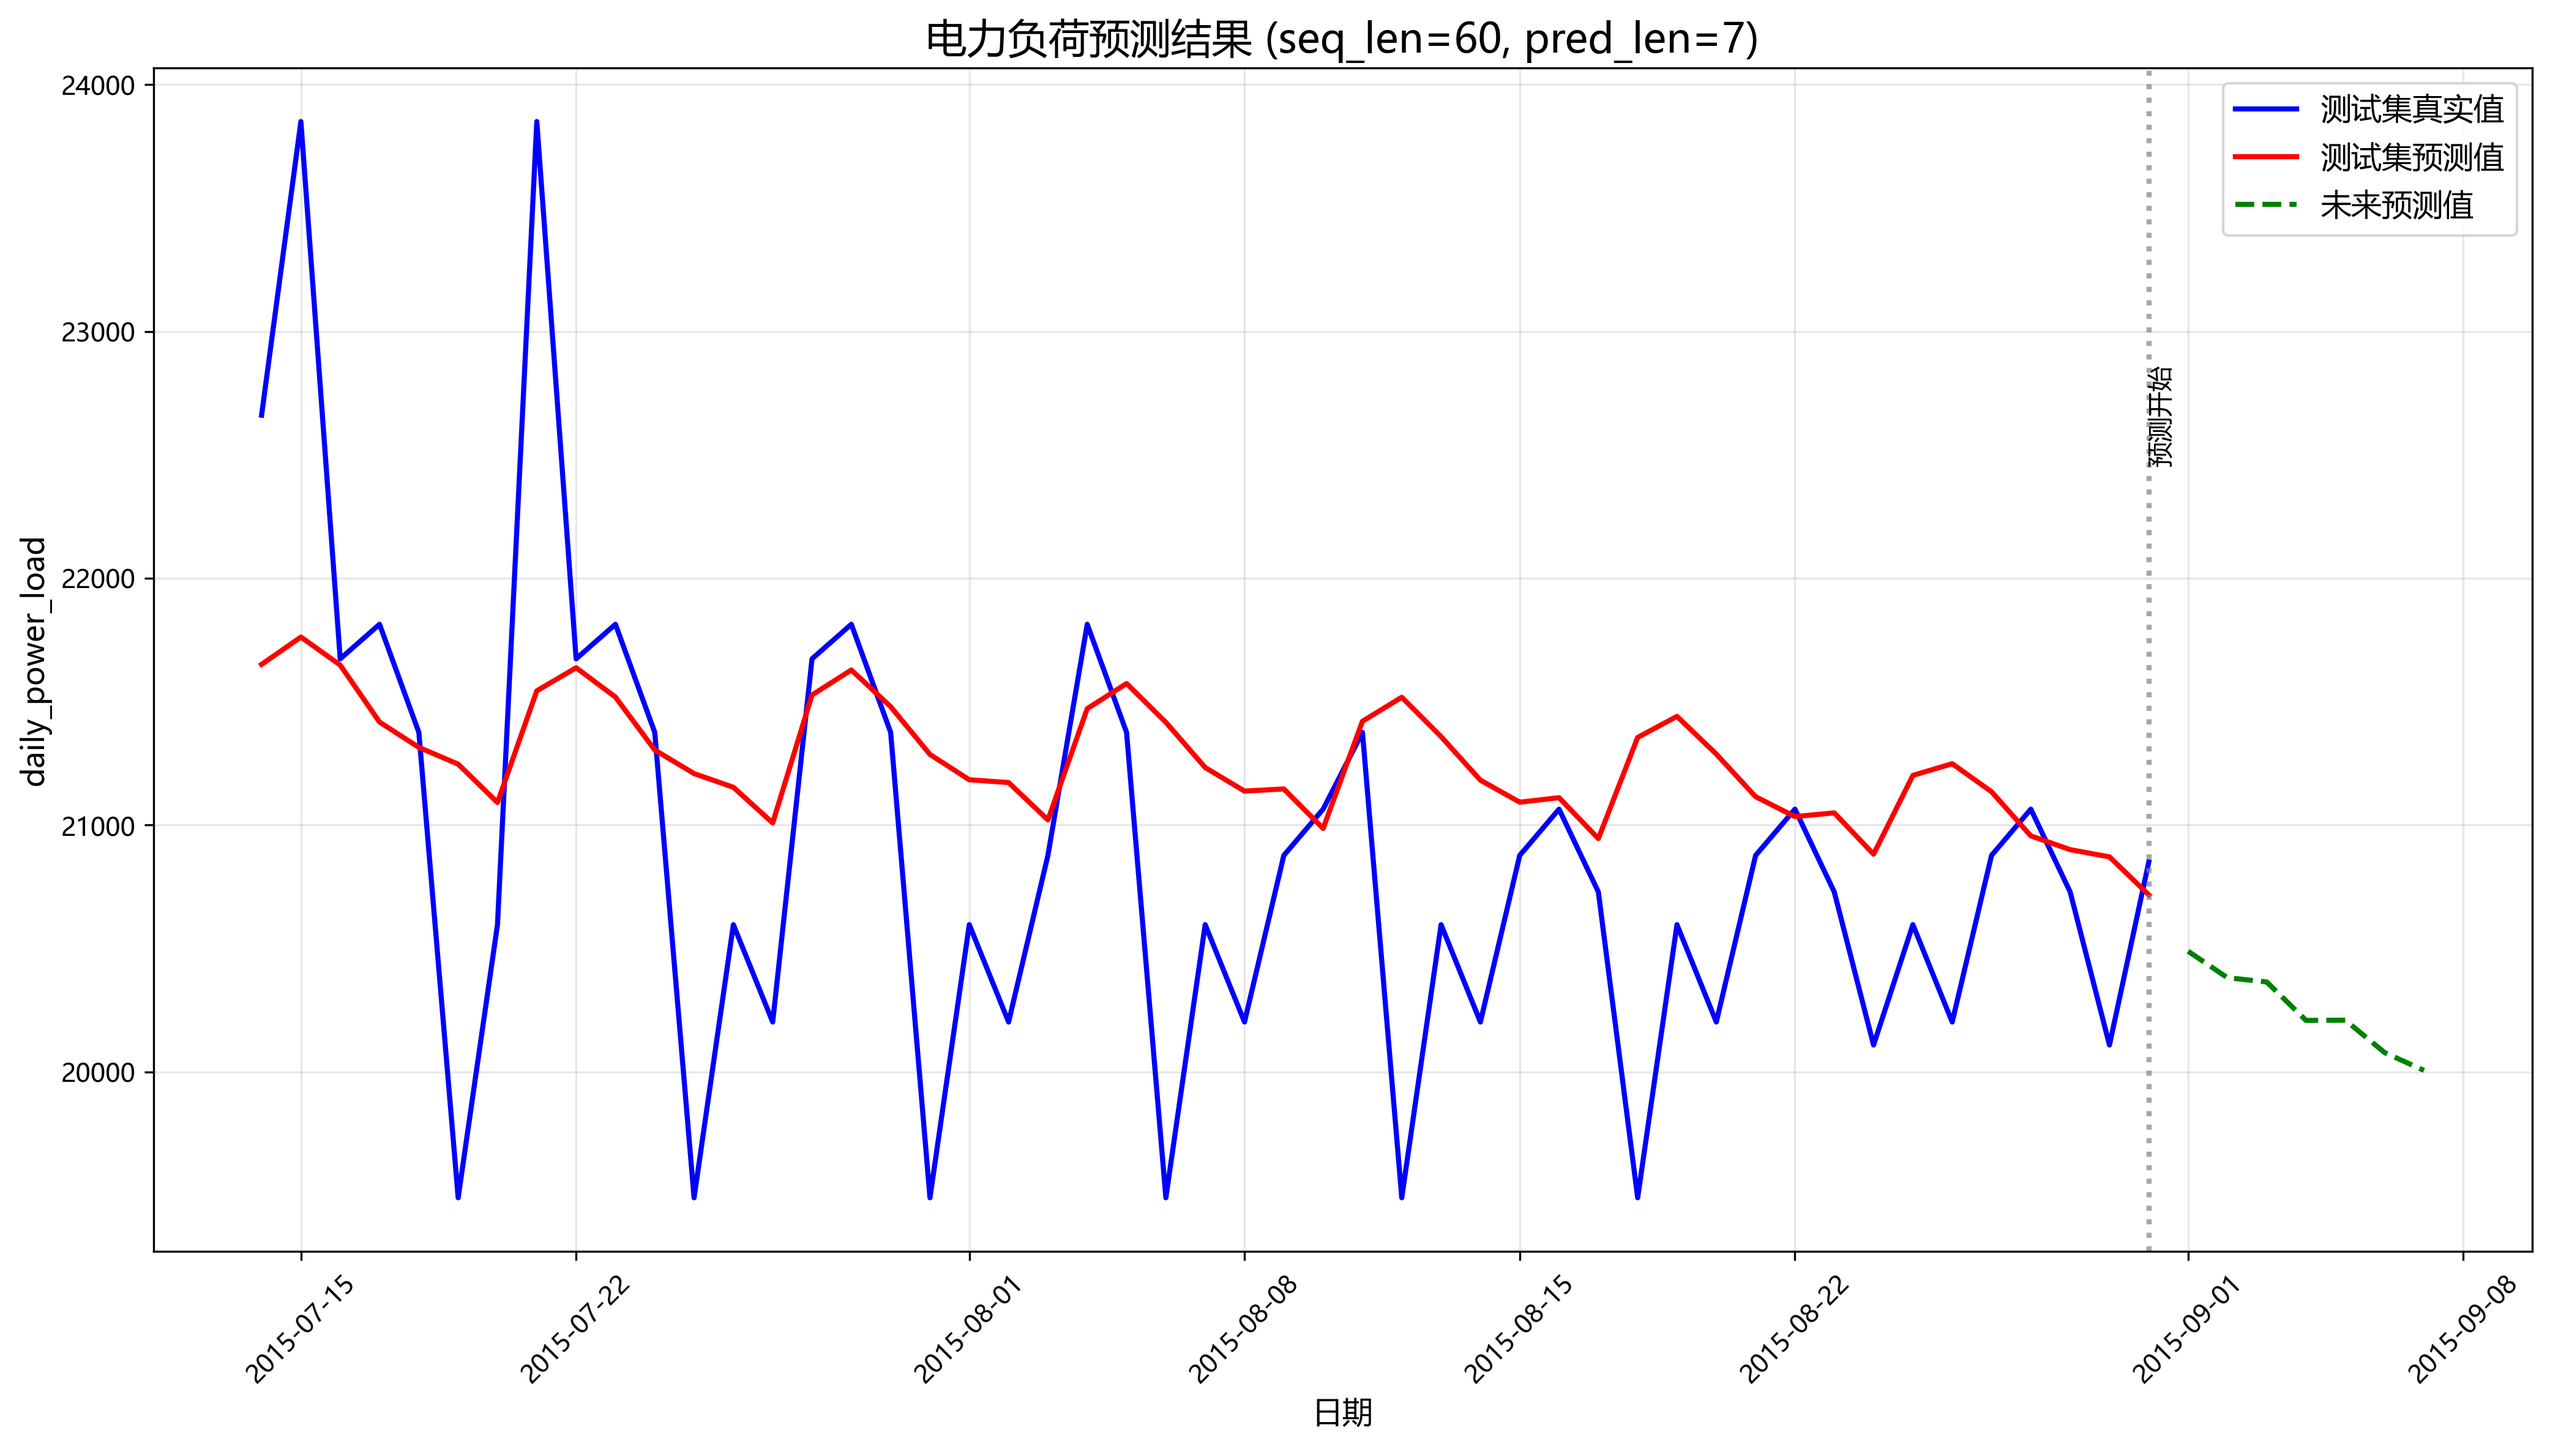
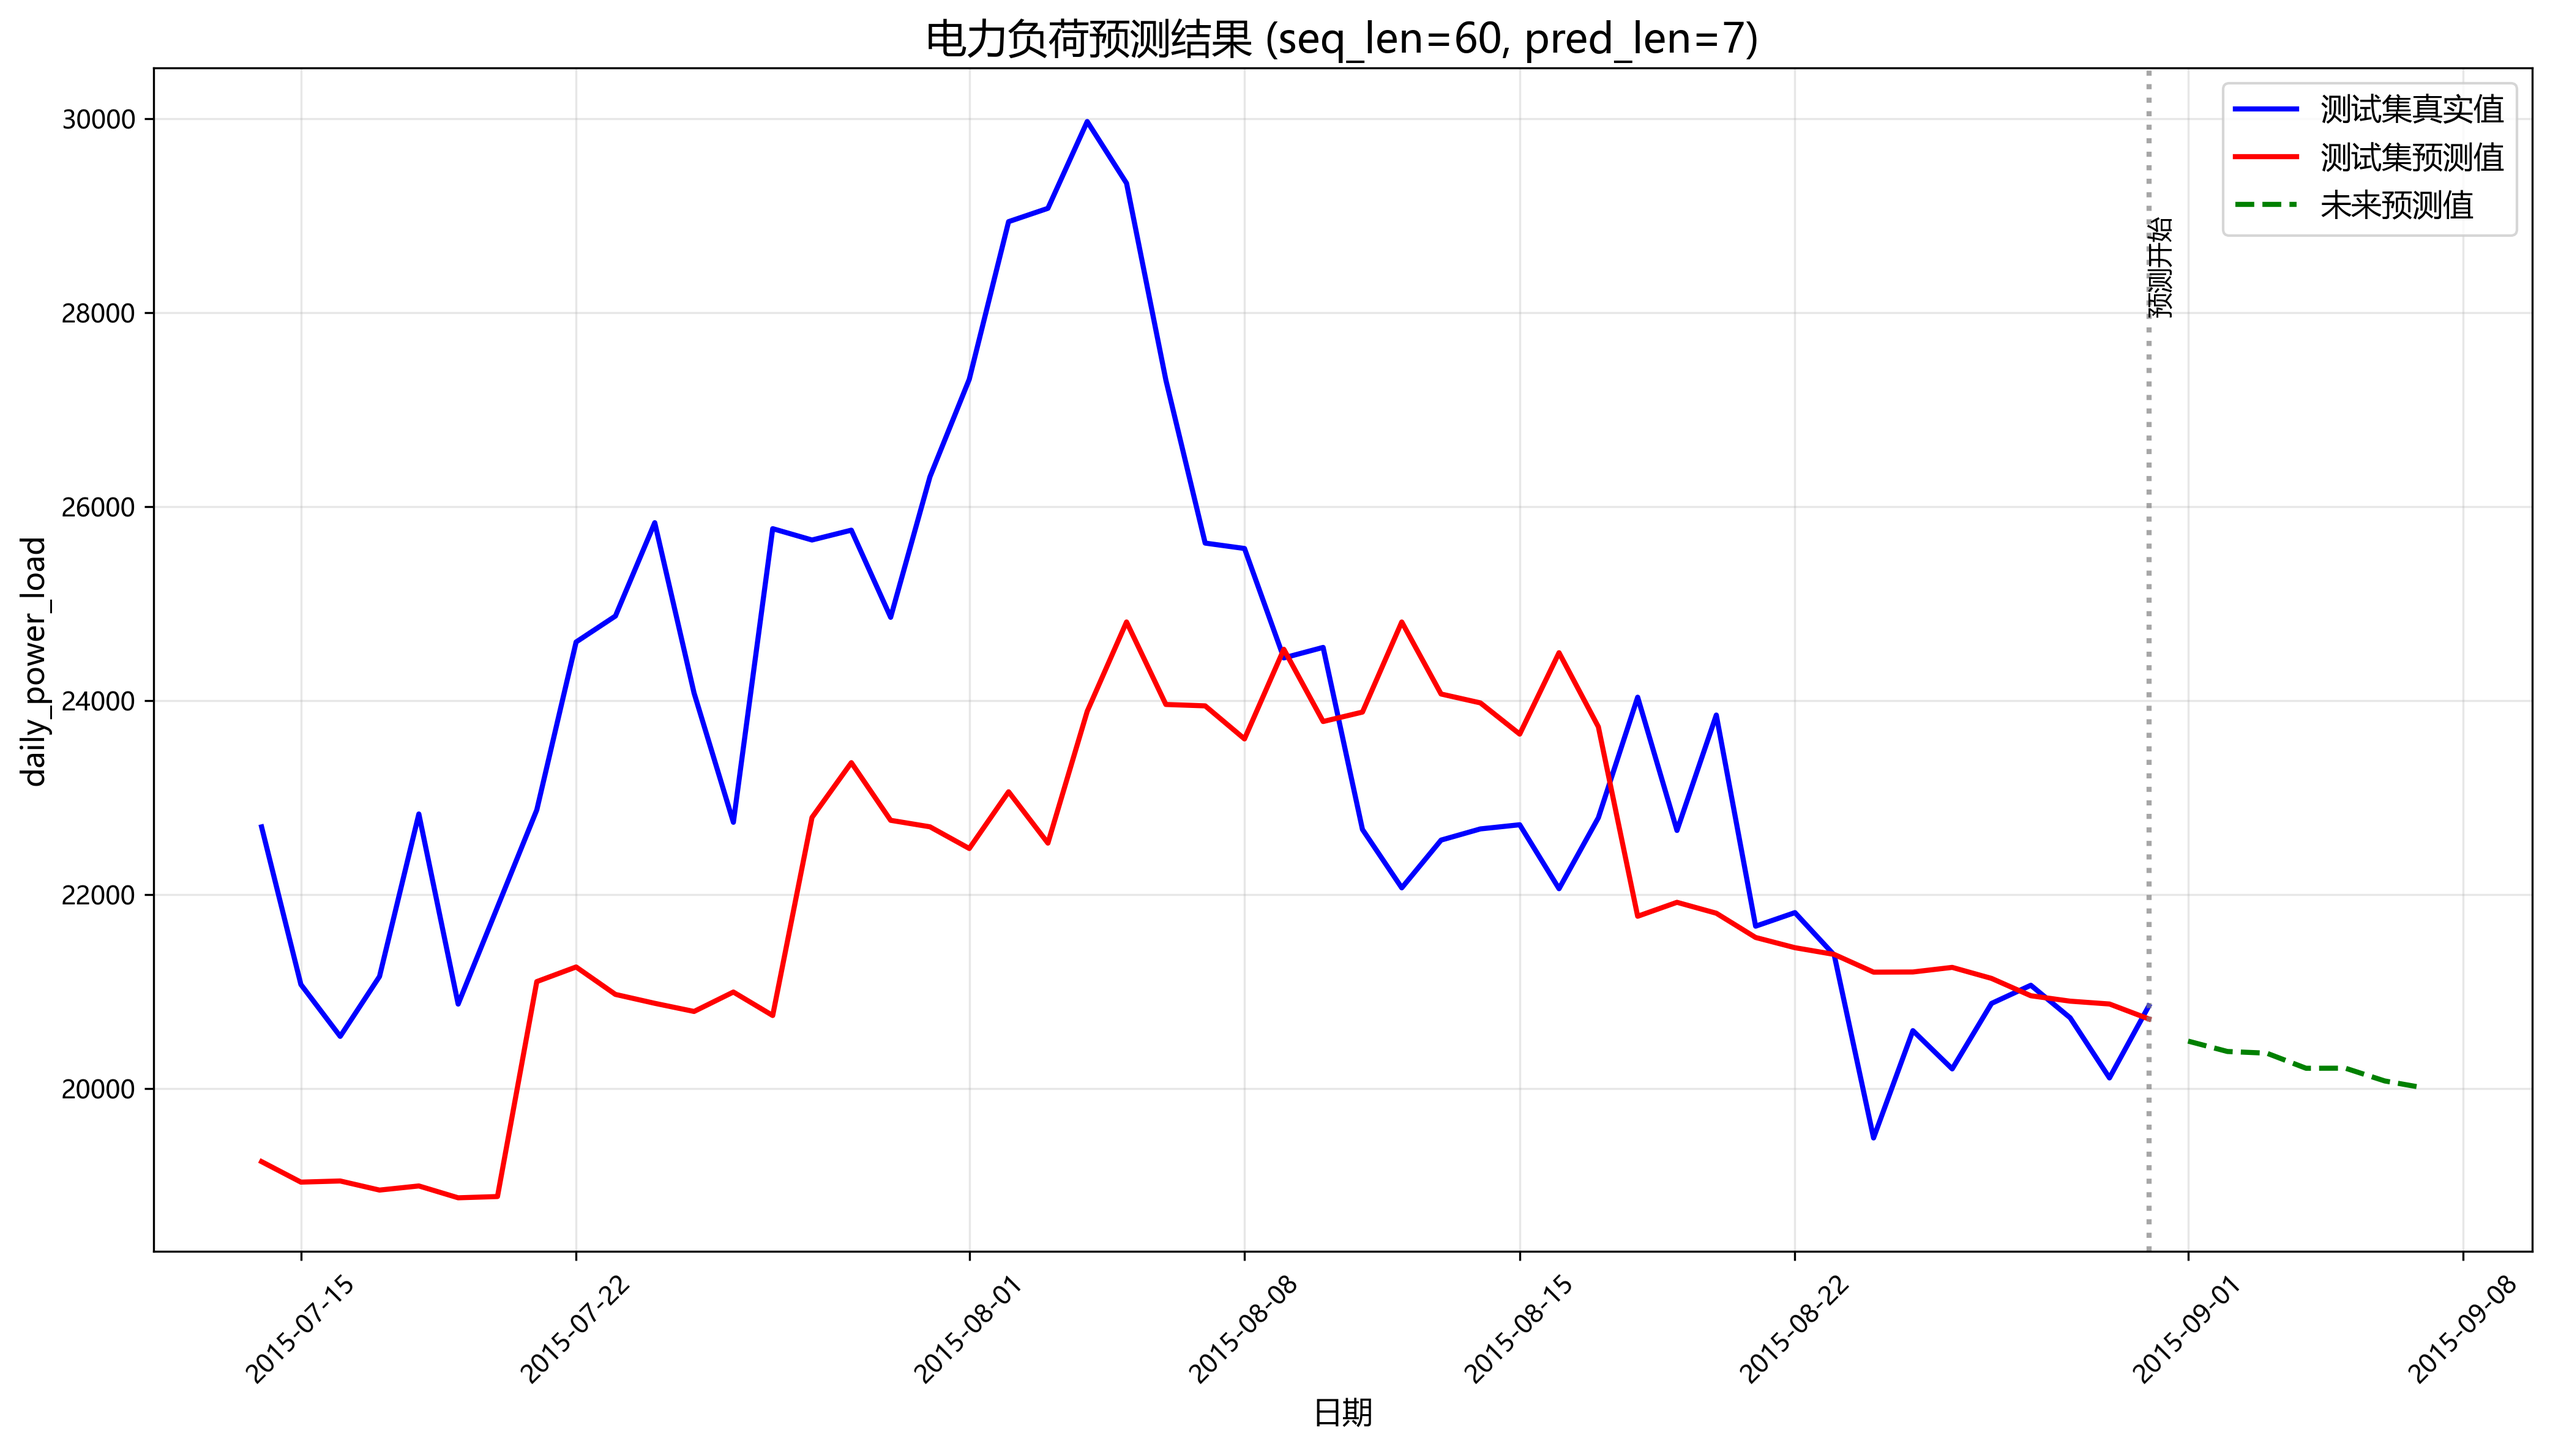
修改测试集预测数据和真实数据绘图时的数据拼接逻辑

diff --git a/plot_combined_results.py b/plot_combined_results.py
@@ -90,91 +90,85 @@ def plot_combined_predictions(args):
     # 根据参数生成结果文件夹路径，与训练时保持一致
     result_dir = f"./results/lstm_{args.data_name}_{args.features}_sl{args.seq_len}_pl{args.pred_len}_hd{args.hidden_dim}_nl{args.num_layers}_0"
     
-    # 检查结果文件夹是否存在
     if not os.path.exists(result_dir):
         print(f"错误：结果文件夹 {result_dir} 不存在")
         return
     
     # 1. 加载所有预测结果
     try:
-        y_test_true = np.load(os.path.join(result_dir, 'y_test_true.npy'))  # 形状：(样本数, pred_len)
-        y_test_pred = np.load(os.path.join(result_dir, 'y_test_pred.npy'))  # 形状：(样本数, pred_len)
-        future_preds = np.load(os.path.join(result_dir, 'future_predictions.npy'))  # 形状：(pred_len,)
+        y_test_true = np.load(os.path.join(result_dir, 'y_test_true.npy'))  # (N, pred_len)
+        y_test_pred = np.load(os.path.join(result_dir, 'y_test_pred.npy'))  # (N, pred_len)
+        future_preds = np.load(os.path.join(result_dir, 'future_predictions.npy'))  # (pred_len,)
     except FileNotFoundError as e:
         print(f"错误：在结果文件夹中未找到预测结果文件: {e}")
         return
     
-    # 打印npy文件形状
     print_npy_shapes(result_dir)
+
+    # 2. 正确拼接测试集序列
+    # N, H = y_test_true.shape  # 样本数，预测步长
+    # L = N + H - 1             # 测试集预测时间总长度
     
-    # 2. 处理测试集数据（拼接为完整序列）
+    # i_idx = np.minimum(np.arange(L), N - 1)
+    # j_idx = np.arange(L) - i_idx
+    
+    # full_test_true = y_test_true[i_idx, j_idx]
+    # full_test_pred = y_test_pred[i_idx, j_idx]
+    # print(f"拼接后长度={len(full_test_true)} (应为 {L})")
+
+    # 2. 每隔 pred_len 天拼接测试集真实值和预测值
+    N, H = y_test_true.shape
+    step = H  # 每隔 H 天取一次样本
+    selected_indices = list(range(0, N, step))  # 选取样本的索引
     full_test_true = []
     full_test_pred = []
-    for i in range(len(y_test_true)):
-        full_test_true.extend(y_test_true[i])
-        full_test_pred.extend(y_test_pred[i])
     
-    # 计算测试集预测序列的总长度（非重叠）
-    total_test_length = len(y_test_true) + args.pred_len - 1
-    full_test_true = full_test_true[-total_test_length:]  # 取最后non-overlap的部分
-    full_test_pred = full_test_pred[-total_test_length:]
+    for idx in selected_indices:
+        full_test_true.extend(y_test_true[idx])
+        full_test_pred.extend(y_test_pred[idx])
     
-    # 3. 获取测试集对应的日期
+    print(f"每隔 {H} 天拼接后的长度={len(full_test_true)}") 
+
+    # 3. 获取测试集日期
     test_dates = get_test_dates(args, len(y_test_true))
     
-    # 确保日期长度与预测序列长度一致
     if len(test_dates) > len(full_test_true):
         test_dates = test_dates[:len(full_test_true)]
     elif len(test_dates) < len(full_test_true):
-        # 如果日期不足，从测试集预测值中截取
         full_test_true = full_test_true[:len(test_dates)]
         full_test_pred = full_test_pred[:len(test_dates)]
     
-    # 检查test_dates是否为空
     if len(test_dates) == 0:
         print("错误：测试集日期为空，无法生成图表")
         return
     
-    # 4. 生成未来预测的日期
-    last_test_date = test_dates.iloc[-1]  # 使用iloc确保按位置访问
+    # 4. 生成未来预测日期
+    last_test_date = test_dates.iloc[-1]
     future_dates = generate_future_dates(last_test_date, len(future_preds))
     
-    # 5. 创建图表
+    # 5. 绘制
     plt.figure(figsize=(14, 8))
     
-    # 绘制测试集真实值
     plt.plot(test_dates, full_test_true, 'b-', label='测试集真实值', linewidth=2)
-    
-    # 绘制测试集预测值
     plt.plot(test_dates, full_test_pred, 'r-', label='测试集预测值', linewidth=2)
-    
-    # 绘制未来预测值
     plt.plot(future_dates, future_preds, 'g--', label='未来预测值', linewidth=2)
     
-    # 添加垂直线分隔测试集和未来预测
     plt.axvline(x=last_test_date, color='gray', linestyle=':', linewidth=2, alpha=0.7)
     plt.text(last_test_date, plt.ylim()[1]*0.95, '预测开始', 
              rotation=90, verticalalignment='top', fontsize=10)
     
-    # 设置图表标题和标签
     plt.title(f'电力负荷预测结果 (seq_len={args.seq_len}, pred_len={args.pred_len})', fontsize=16)
     plt.xlabel('日期', fontsize=12)
     plt.ylabel(args.target_col, fontsize=12)
     plt.legend(fontsize=12)
     plt.grid(True, alpha=0.3)
-    
-    # 旋转x轴标签以避免重叠
     plt.xticks(rotation=45)
-    
-    # 调整布局
     plt.tight_layout()
     
-    # 确保img目录存在
     img_dir = os.path.join(result_dir, 'img')
     if not os.path.exists(img_dir):
         os.makedirs(img_dir)
     
-    # 保存图表
     save_path = os.path.join(img_dir, 'combined_predictions.png')
     plt.savefig(save_path, dpi=300, bbox_inches='tight')
     plt.close()
